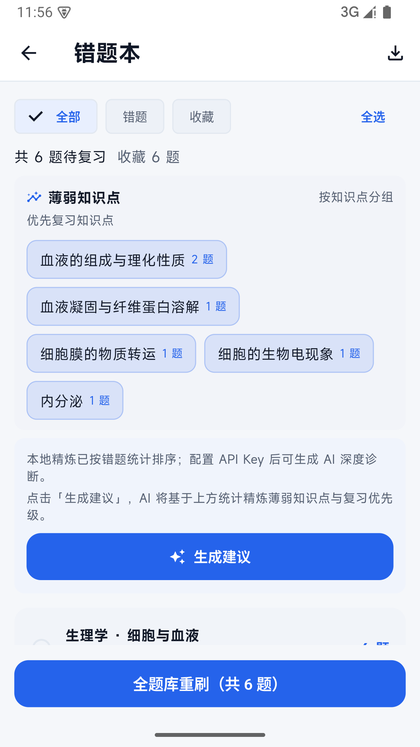
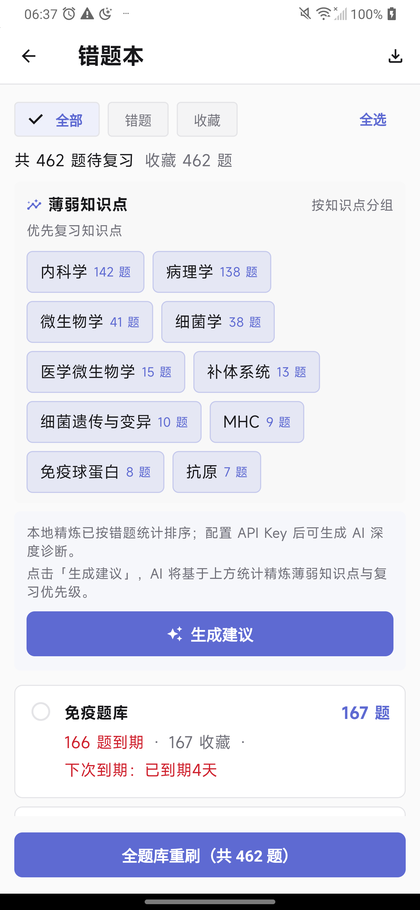
docs(README): 截图换成合并后新 UI 的真机实拍
上一版 5 张截图是旧 UI（蓝色主题 + 3 tab），已在合并后全部过时。
这次用真机（LM-G710）装合并后的包重拍，并按新信息架构调整为 4 张：
  首页（问候卡含累计数据 + 本周战绩，一屏）、开始页（四个入口）、
  错题本（薄弱知识点 + 到期提示）、统计页（年度坚持 + 近一年趋势）
答题页两张暂缺（需进入答题流程才能拍），对应引用一并移除，
避免 README 出现与实际界面不符的图。

顺带：错题本这张同时验证了溢出修复在真机生效——「下次到期：已到期4天」
折行完整显示，不再被屏幕右缘裁断。

diff --git a/README.md b/README.md
@@ -31,14 +31,13 @@
 ## 界面预览
 
 <div align="center">
-  <img src="docs/screenshots/home.png" width="168" alt="首页：本周战绩与打卡日历">
-  <img src="docs/screenshots/quiz.png" width="168" alt="答题页：单选与多选">
-  <img src="docs/screenshots/quiz-feedback.png" width="168" alt="答完即判：对错配色与解析入口">
-  <img src="docs/screenshots/errorbook.png" width="168" alt="错题本：薄弱知识点分组">
-  <img src="docs/screenshots/stats.png" width="168" alt="统计页：年度热力图与趋势">
+  <img src="docs/screenshots/home.png" width="168" alt="首页：问候卡（含累计数据）与本周战绩，一屏不滚动">
+  <img src="docs/screenshots/start.png" width="168" alt="开始页：定向爆破 / 题库管理 / 错题本 / 导入">
+  <img src="docs/screenshots/errorbook.png" width="168" alt="错题本：薄弱知识点分组与到期提示">
+  <img src="docs/screenshots/stats.png" width="168" alt="统计页：年度坚持热力图与近一年趋势">
 </div>
 
-<p align="center"><sub>首页 · 答题 · 答完即判 · 错题本 · 统计（真实运行截图，非示意图）</sub></p>
+<p align="center"><sub>首页 · 开始 · 错题本 · 统计（真机实拍，非示意图）</sub></p>
 
 ---
 
